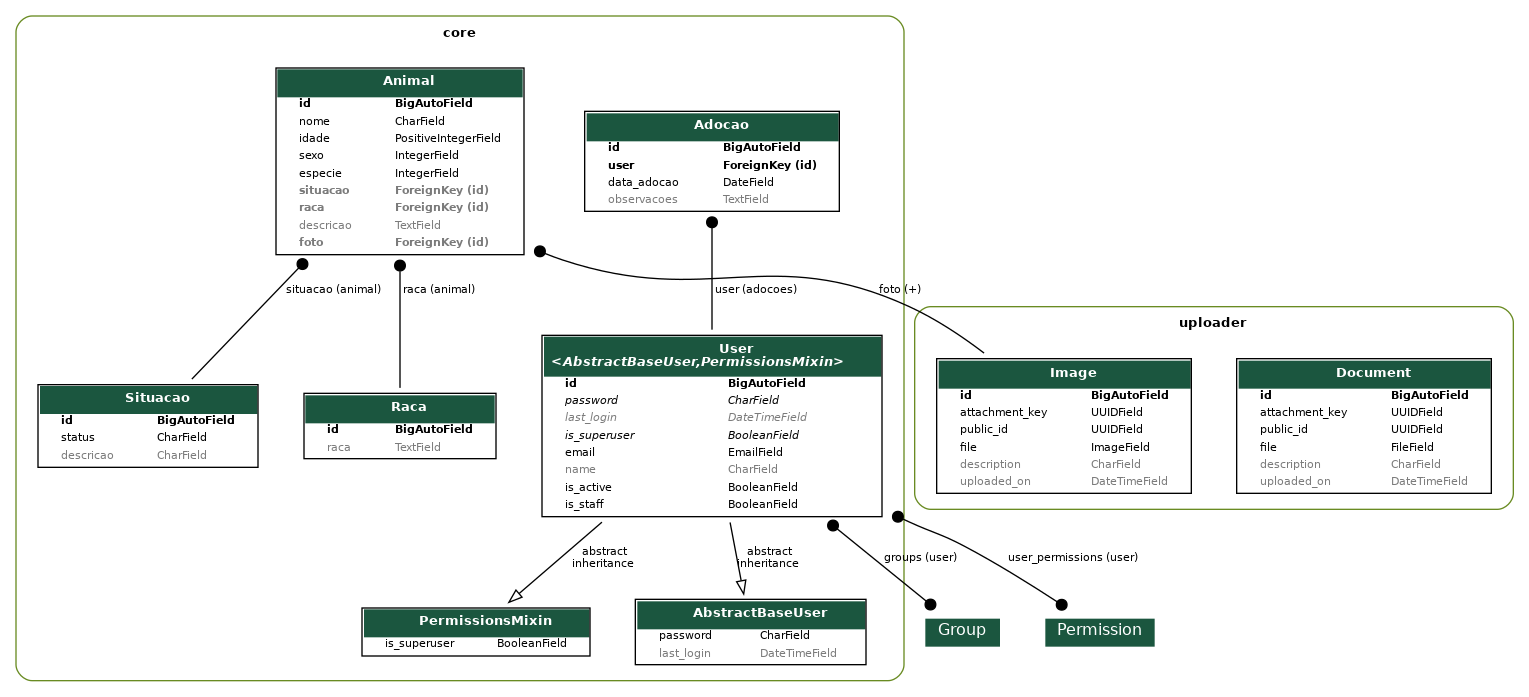
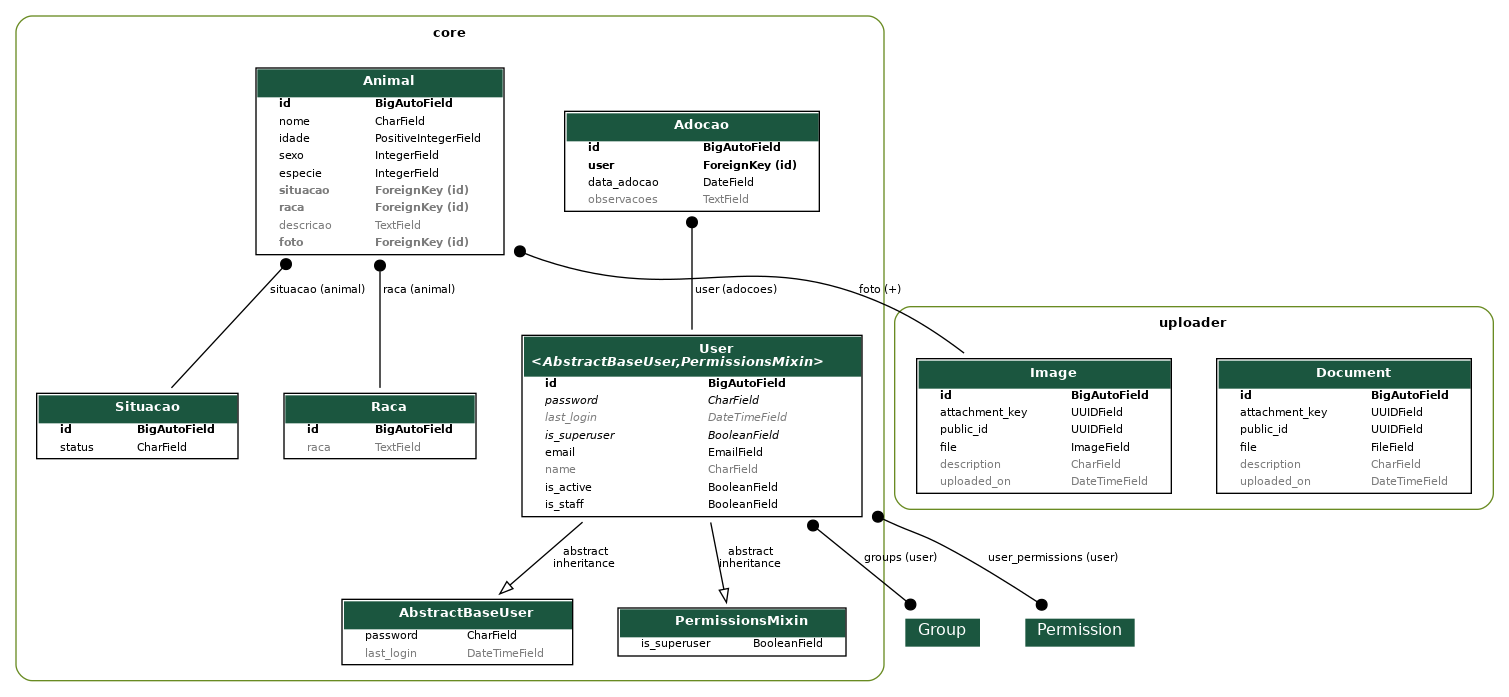
FINALIZAÇÃO DO FURBUDS

diff --git a/core/models/animal.py b/core/models/animal.py
@@ -4,7 +4,6 @@ from uploader.models import Image
 
 from .raca import Raca
 from .situacao import Situacao
-# from .user import User
 
 
 class Animal(models.Model):
@@ -24,9 +23,7 @@ class Animal(models.Model):
     nome = models.CharField(max_length=40)
     idade = models.PositiveIntegerField()  
     sexo = models.IntegerField(choices=Sexo.choices)
-    # status = models.IntegerField(choices=StatusAnimal.choices)
     especie = models.IntegerField(choices=Especie.choices)
-    # user = models.ForeignKey(User, on_delete=models.CASCADE, related_name="animais")
     situacao = models.ForeignKey(Situacao, on_delete=models.SET_NULL, null=True, blank=True)
     raca = models.ForeignKey(Raca, on_delete=models.SET_NULL, null=True, blank=True)
     descricao = models.TextField(null=True, blank=True)

diff --git a/core/migrations/0010_remove_situacao_descricao.py b/core/migrations/0010_remove_situacao_descricao.py
@@ -1,0 +1,17 @@
+# Generated by Django 5.1.3 on 2024-12-17 16:51
+
+from django.db import migrations
+
+
+class Migration(migrations.Migration):
+
+    dependencies = [
+        ("core", "0009_animal_descricao"),
+    ]
+
+    operations = [
+        migrations.RemoveField(
+            model_name="situacao",
+            name="descricao",
+        ),
+    ]

diff --git a/core/serializers/animal.py b/core/serializers/animal.py
@@ -16,5 +16,6 @@ class AnimalSerializer(ModelSerializer):
             required=False,
             write_only=True,
         )
+        depth = 1
 
     foto = ImageSerializer(required=False, read_only=True)
